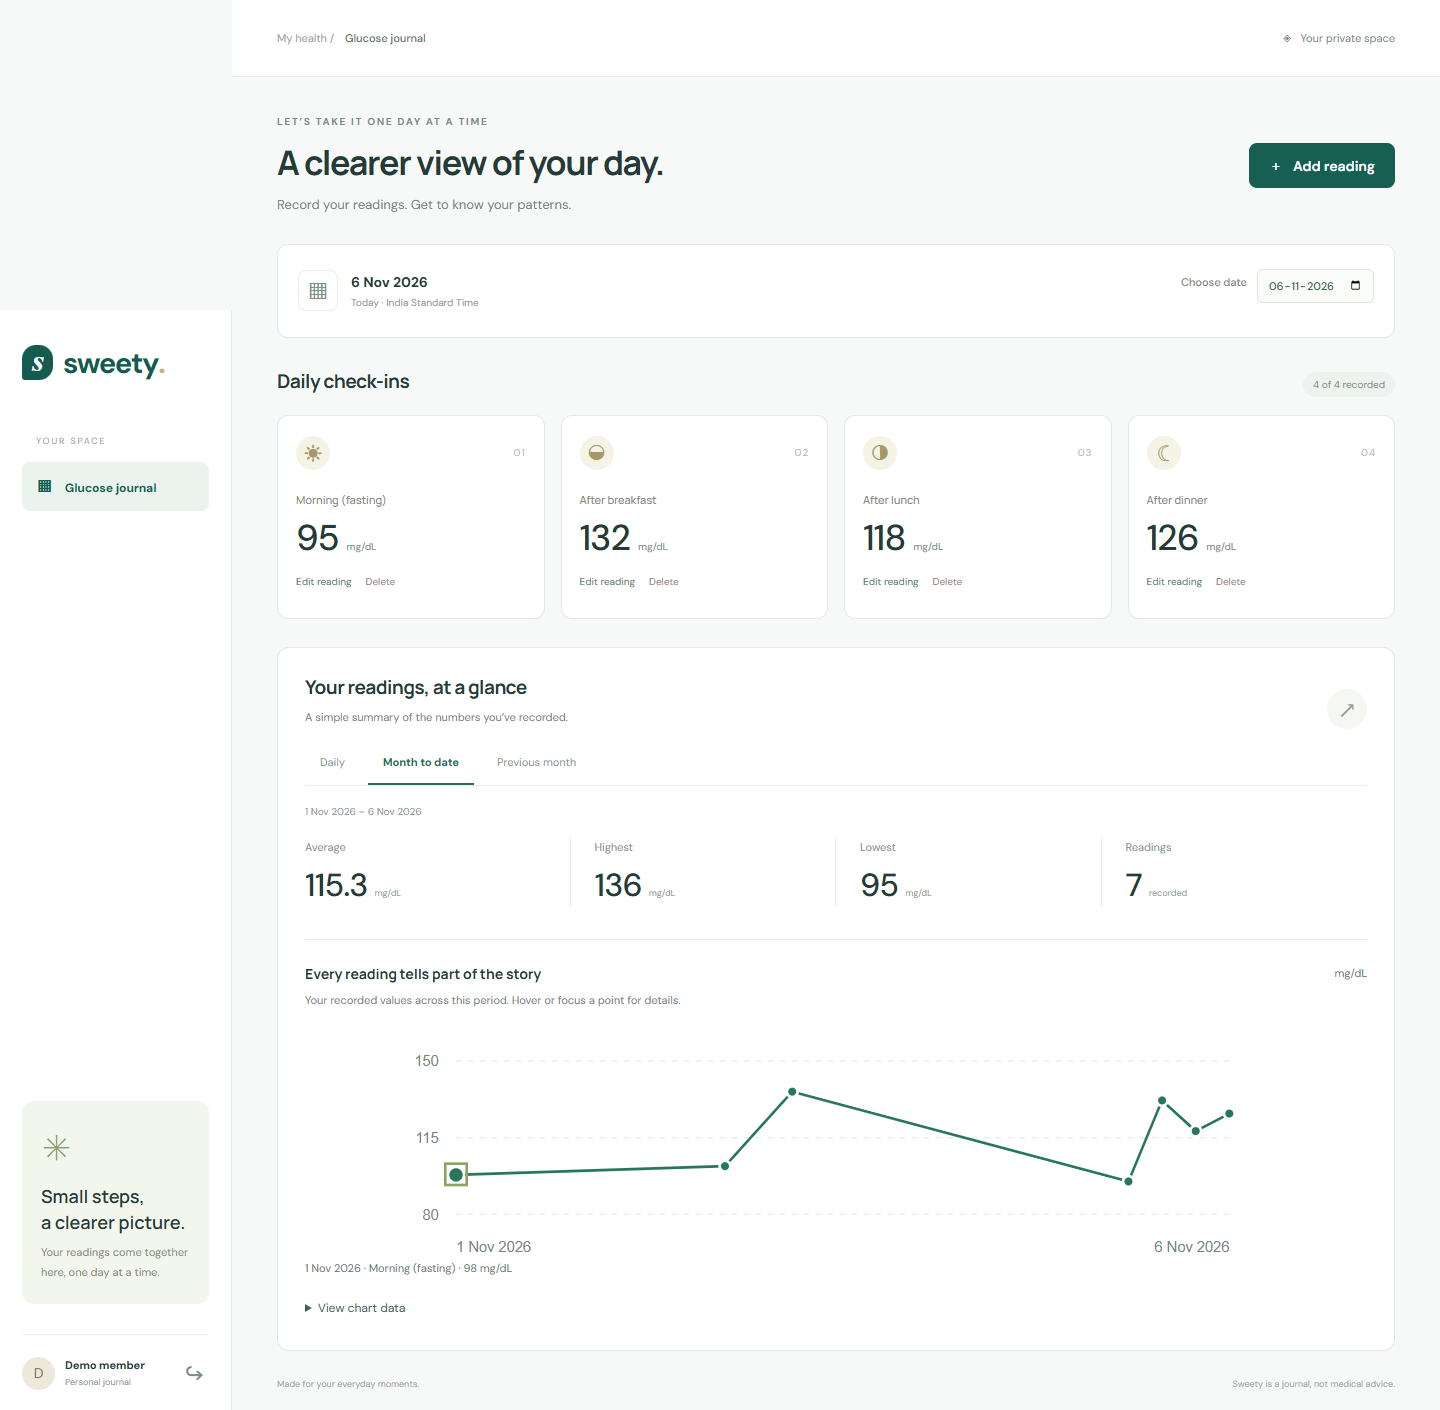
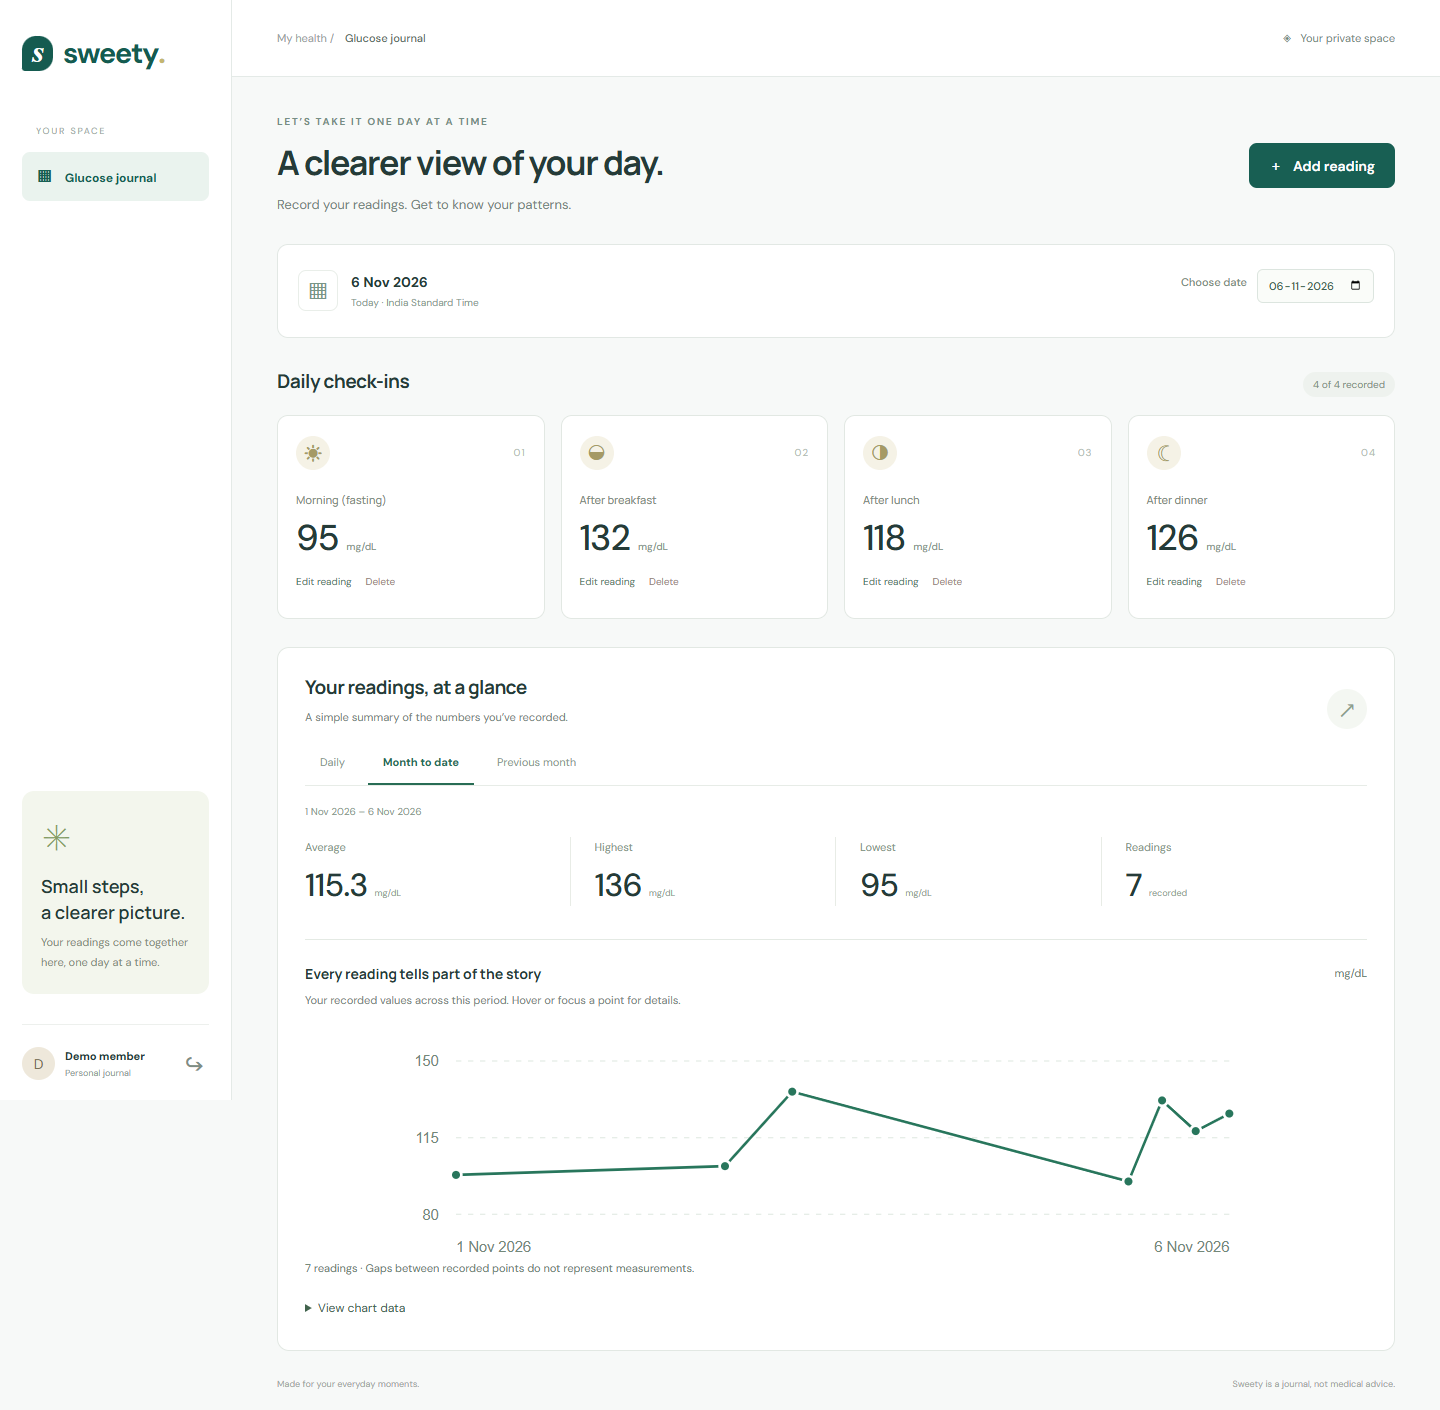
docs: record final spec audit and clean-install verification

diff --git a/HANDOFF.md b/HANDOFF.md
@@ -2,7 +2,7 @@
 
 ## Current state
 
-Owner: Codex. Stage: official-spec audit completed; chart/form-test bonuses under final verification. Last updated: 6 November 2026.
+Owner: Codex. Stage: official-spec audit and final verification complete; published; unsent draft awaits Glen’s confirmation. Last updated: 6 November 2026.
 Required stack: React, Express, PostgreSQL. Required outcomes: authenticated private reading CRUD, strict validation, calendar reports, meaningful tests, reproducible setup, seed and screenshots.
 Submission requires Glen's confirmation. Nothing has been submitted.
 
@@ -10,7 +10,7 @@ Implemented: React journal, native reading dialog, Express cookie authentication
 
 Clean install: a fresh archived checkout passed npm ci, migration to an empty database, seeding, all 12 tests and build. Secrets and SDD.md are ignored. Public repository: https://github.com/GlenTheReb/sweety.
 
-The public README was fetched successfully without authentication (HTTP 200). Gmail contains an unsent reply draft in the original employer thread with the repository link and three fictional-data screenshots. No assessment has been sent. The draft needs refreshing to mention the 20 tests and attach the new chart screenshot before requesting approval. Next: finish fresh-install verification of bonus dependencies, update the draft, obtain Glen's explicit send confirmation, then verify the sent message. Read README.md and docs/VERIFICATION.md for commands/evidence. Do not claim Claude reviewed the project: no Claude review has occurred. Browser tool screenshots were moved into Sweety; no Empl source/data files were edited.
+The public README was fetched successfully without authentication (HTTP 200). Gmail contains an unsent reply draft in the original employer thread with the repository link and four fictional-data screenshots. No assessment has been sent. The draft has been refreshed with all 20 passing tests and four screenshots, including the monthly trend. Fresh dependency installation, empty-database migration/seed, all 20 tests, build and API startup/login/report smoke checks passed. Next: obtain Glen’s explicit send confirmation, send the existing draft, then verify the sent message. Read README.md and docs/VERIFICATION.md for commands/evidence. Do not claim Claude reviewed the project: no Claude review has occurred. Browser tool screenshots were moved into Sweety; no Empl source/data files were edited.
 
 ## Codex to Claude
 

diff --git a/docs/VERIFICATION.md b/docs/VERIFICATION.md
@@ -8,7 +8,7 @@ Verified on 6 November 2026 using Node.js 24.19.0, npm 11.17.0 and PostgreSQL 17
 
 All 12 server/domain tests and 8 React component tests passed with zero failures or skips. `npm run build` compiles the React client successfully. `npm audit` reported zero known vulnerabilities at installation time; this is a point-in-time dependency check, not a security guarantee.
 
-A fresh `git archive` checkout was extracted into a new temporary folder. `npm ci`, migration into a newly created empty PostgreSQL database, demo seeding, all 12 tests and the build passed. The disposable database was removed afterwards. This confirmed that no untracked file or pre-existing app data was required for setup.
+A fresh `git archive` checkout was extracted into a new temporary folder. `npm ci`, migration into a newly created empty PostgreSQL database, demo seeding, all 20 tests and the build passed. The disposable database was removed afterwards. This confirmed that no untracked file or pre-existing app data was required for setup. The API was also started from the fresh checkout with external environment configuration; health, seeded login and daily reports passed.
 
 ## Browser checks
 
@@ -30,7 +30,7 @@ The flow under test was: registration/login → journal → add/edit/delete read
 | Responsive | Desktop 1440×1000 and mobile 390×844; no horizontal mobile overflow |
 | Console | No runtime app errors on final authenticated render; unauthenticated session probes produce expected HTTP 401 responses |
 
-Screenshots: [desktop journal](screenshots/daily-journal.png), [mobile journal](screenshots/mobile-journal.png), [validation dialog](screenshots/reading-validation.png). All displayed account/readings are fictional. Screenshots were visually inspected for clipping, spacing, typography, controls and error readability.
+Screenshots: [desktop journal](screenshots/daily-journal.png), [mobile journal](screenshots/mobile-journal.png), [validation dialog](screenshots/reading-validation.png), [monthly trend](screenshots/monthly-trend.png). All displayed account/readings are fictional. Screenshots were visually inspected for clipping, spacing, typography, controls and error readability.
 
 ## Bonus verification
 
